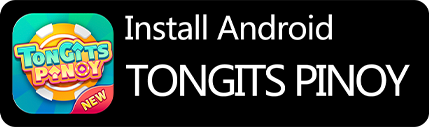
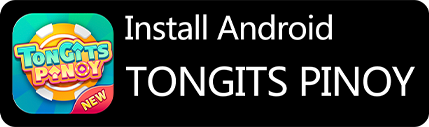
增加下载旧pinoy包的链接

Changed region(s): [[0.2727, 0.4961, 0.9697, 0.7795]]

diff --git a/src/views/Home.vue b/src/views/Home.vue
@@ -6,6 +6,7 @@ export default {
       isMobile: false,
       down_apple_shop: import.meta.env.VITE_DOWN_APPLE_SHOP,
       down_official_apk: import.meta.env.VITE_DOWN_OFFICIAL_APK,
+      down_official_new_apk: import.meta.env.VITE_DOWN_OFFICIAL_NEW_APK,
       down_google_shop: import.meta.env.VITE_DOWN_GOOGLE_SHOP,
     };
   },
@@ -22,7 +23,7 @@ export default {
       // 检测移动端设备
       this.isMobile =
         /Android|webOS|iPhone|iPad|iPod|BlackBerry|IEMobile|Opera Mini/i.test(
-          userAgent
+          userAgent,
         );
     },
   },
@@ -71,10 +72,24 @@ export default {
           </a>
         </div>
         <div>
-          <a :href="down_official_apk" target="_blank">
+          <a
+            :href="down_official_new_apk"
+            target="_blank"
+            class="download-link"
+          >
             <img
               class="home_img"
               src="/img_tg_pinoy.png"
+              alt="android install"
+            />
+            <img class="corner-badge" src="/img_new.png" alt="new" />
+          </a>
+        </div>
+        <div>
+          <a :href="down_official_apk" target="_blank">
+            <img
+              class="home_img"
+              src="/img_tg_pinoy2.png"
               alt="android install"
             />
           </a>
@@ -112,10 +127,24 @@ export default {
             </a>
           </div>
           <div>
-            <a :href="down_official_apk" target="_blank">
+            <a
+              :href="down_official_new_apk"
+              target="_blank"
+              class="download-link mobile"
+            >
               <img
                 class="home_img_m"
                 src="/img_tg_pinoy.png"
+                alt="android install"
+              />
+              <img class="corner-badge-m" src="/img_new.png" alt="new" />
+            </a>
+          </div>
+          <div>
+            <a :href="down_official_apk" target="_blank">
+              <img
+                class="home_img_m"
+                src="/img_tg_pinoy2.png"
                 alt="android install"
               />
             </a>
@@ -154,10 +183,35 @@ export default {
   margin: 0 auto 18px auto;
 }
 
+.download-link {
+  position: relative;
+  /* display: inline-block; */
+}
+
+.corner-badge {
+  position: absolute;
+  top: -11px;
+  right: -30px;
+  width: 25%;
+  max-width: 80px;
+  z-index: 2;
+  transition: transform 0.3s ease;
+}
+
 .home_img_m {
   object-fit: contain;
   max-width: 50%;
   margin: 0 auto 18px auto;
+}
+
+.corner-badge-m {
+  position: absolute;
+  top: -8px;
+  right: -19px;
+  width: 25%;
+  max-width: 80px;
+  z-index: 2;
+  transition: transform 0.3s ease;
 }
 
 .home_tips_img_m {

diff --git a/functions/load/downloadApk.js b/functions/load/downloadApk.js
@@ -14,7 +14,7 @@ export async function onRequest(context) {
     });
   }
   // 目标文件的真实地址（需支持 HTTPS）
-  const fileUrl = "https://res.tongitspinoy.com/TongitsPinoy.apk";
+  const fileUrl = "https://res.tongitspinoy.com/TongitsPinoyNew.apk";
 
   // 发起请求并返回文件流
   const response = await fetch(fileUrl);
